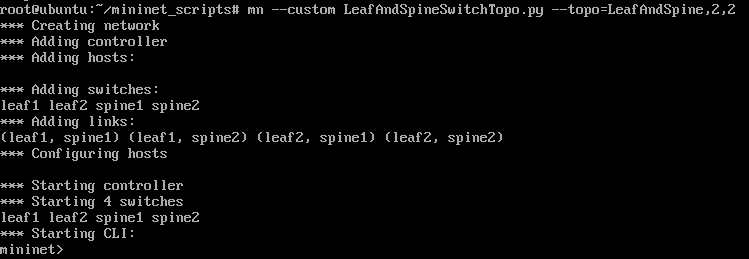
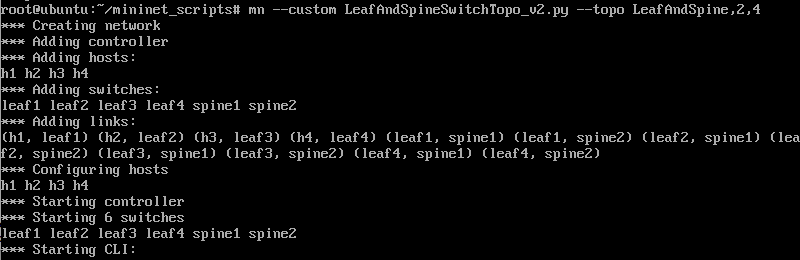
anpassung

Changed region(s): [[0.0, 0.0, 1.0, 0.9884]]

diff --git a/Lab08/Lab08_GiorgioVincenti&SamuelKrieg.tex b/Lab08/Lab08_GiorgioVincenti&SamuelKrieg.tex
@@ -85,19 +85,12 @@ Create a custom topology script for clos fabric
 \item Layer2 or Layer3
 \end{itemize}
 
-\subsection{Infrastruktur}
-Das Script und die Umgebung wurde in einer virtuellen Maschine, mit Linux Ubuntu Server, getestet. Die einzige Voraussetzung ist, dass Mininet installiert ist. Wir gehen nicht auf die Einzelheiten ein.
-
-\subsubsection{Layer}
-Mininet Infrastruktur wurde im Layer2 betrieben.
-
-\section{Python Script}
-Folgendes Script wird eine eigene Topologie im Mininet aufsetzten: \\
-
+\section{Mininet Script (Python)}
 \begin{lstlisting}
 #!/usr/bin/python
 
 from mininet.topo import Topo
+from cmd import Cmd
 
 class LeafAndSpine(Topo):
     def __init__(self, spine=2, leaf=2):
@@ -106,9 +99,16 @@ class LeafAndSpine(Topo):
         spines = {}
         for s in range(spine):
             spines[s] = self.addSwitch('spine%s' % (s + 1))
+            Cmd('sh ovs-vsctl set-fail-mode spine%s standalone' % (s + 1))
+            Cmd('sh ovs-vsctl set Bridge spine%s stp_enable=true' % (s + 1))
 
         for l in range(leaf):
             leafSwitch = self.addSwitch('leaf%s' % (l + 1))
+            Cmd('sh ovs-vsctl set-fail-mode leaf%s standalone' % (l + 1))
+            Cmd('sh ovs-vsctl set Bridge leaf%s stp_enable=true' % (l + 1))
+            
+            host = self.addHost('h%s' % (l + 1), ip="10.10.1.%s" % (l + 1))
+            self.addLink(host,leafSwitch)
 
             for s in range(spine):
                 self.addLink(leafSwitch, spines[s])
@@ -118,30 +118,36 @@ topos = {
 }
 \end{lstlisting}
 
+\subsection{Infrastruktur}
+Das Script und die Umgebung wurde in einer virtuellen Maschine, mit Linux Ubuntu Server, getestet. Die einzige Voraussetzung ist, dass Mininet installiert ist. Wir gehen nicht auf die Einzelheiten ein.
+
+\subsubsection{Layer}
+Mininet Infrastruktur wurde im Layer2 betrieben,. Um Loops zu vermeiden, wurde auf Spanning-Tree auf den Switches aktiviert. 
+
 \subsection{Mininet starten, mit Parameter}
 Um Mininet mit folgenden Script aufzustarten, ist die Angabe des Scripts bei Start von Mininet notwendig. 
 \begin{lstlisting}
 #Startet Mininet mit Script - wobei x = Anzahl Spines, y = Anzahl Leafs
-#LeafAndSpineSwitchTopo.py = Scriptname 
-sudo mn --custom LeafAndSpineSwitchTopo.py --topo=LeafAndSpine,x,y 
+#LeafAndSpineSwitchTopo_v2.py = Scriptname 
+sudo mn --custom LeafAndSpineSwitchTopo_v2.py --topo=LeafAndSpine,x,y 
 \end{lstlisting}
 
-\subsubsection{Beispiel: Mininet mit 2x Spines und 2x Leafs}
-In diesem Beispiel wird Mininet mithilfe des Scripts aufgesetzt, mit dem man die Anzahl Spines und Leafs als Parameter mitgeben kann.
+\subsubsection{Mininet-Topo mit 2x Spines und 4x Leafs}
+In diesem Beispiel wird Mininet mithilfe des Scripts aufgesetzt, mit dem man die Anzahl Spines und Leafs als Parameter mitgeben kann. Pro Leaf wird automatisch einen Host hinzugefügt. 
 \begin{figure} [H]
 	\begin{center}
-	\includegraphics[width=0.80\textwidth]{./pictures/example.png}
+	\includegraphics[width=1.00\textwidth]{./pictures/example.png}
 	\caption{Screenshot: Mininet Config mit Script}
 	\label{x}
 	\end{center}
 \end{figure} 
 
-\subsubsection{Beispiel: Ping Tests Switches}
-Hier einige Ping Tests von den Leaf-Switches zu den Spine-Switches: 
+\subsubsection{Test: pingall}
+Hier einige Ping-Tests die mithilfe von pingall durchgefüht wurden. 
 \begin{figure} [H]
 	\begin{center}
-	\includegraphics[width=0.40\textwidth]{./pictures/example_ping.png}
-	\caption{Screenshot: Pingtest}
+	\includegraphics[width=0.60\textwidth]{./pictures/example_ping.png}
+	\caption{Screenshot: pingall}
 	\label{x}
 	\end{center}
 \end{figure} 
